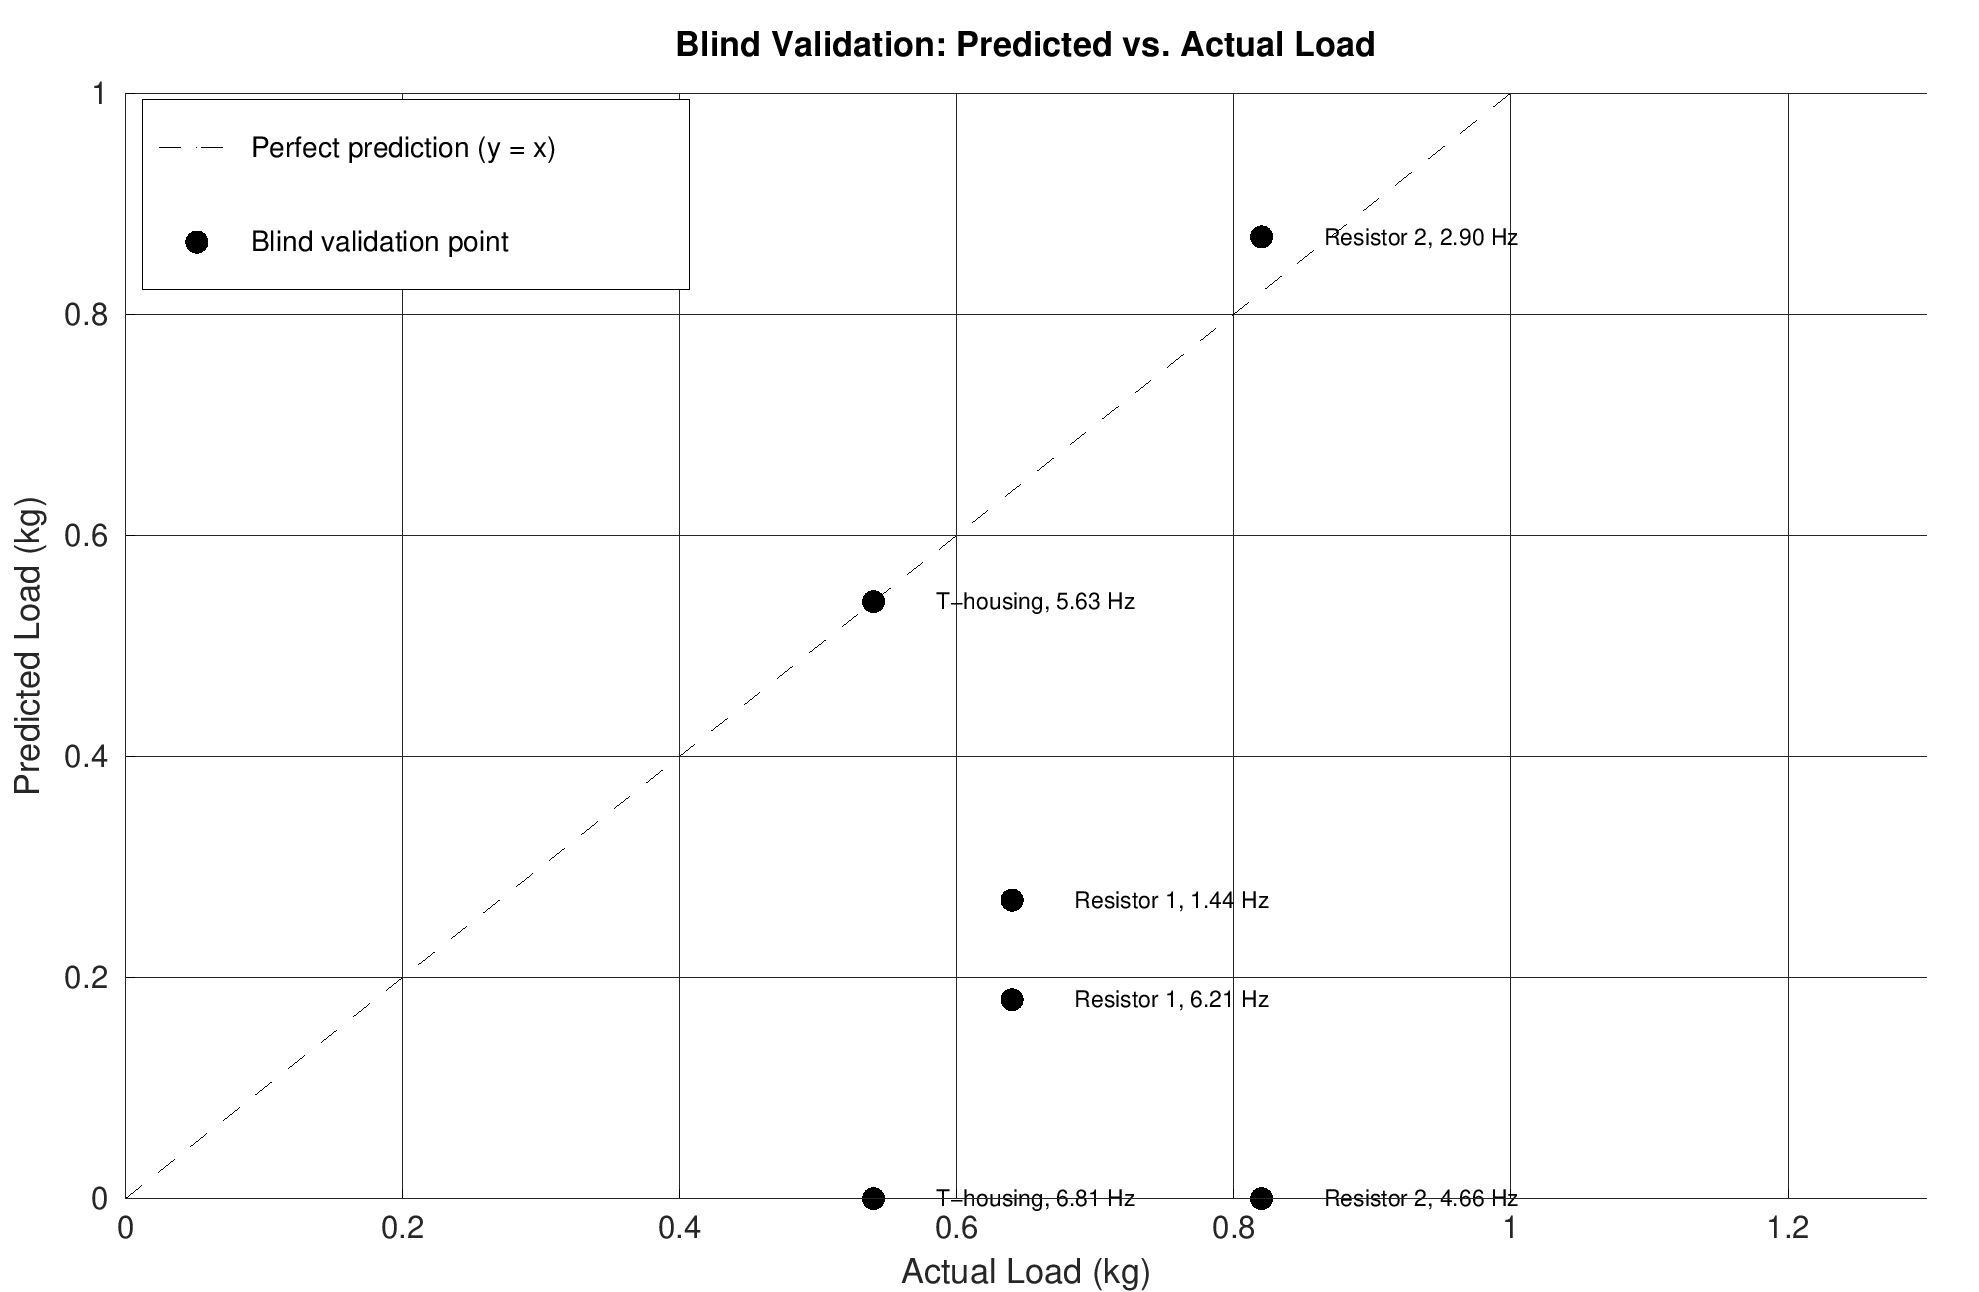
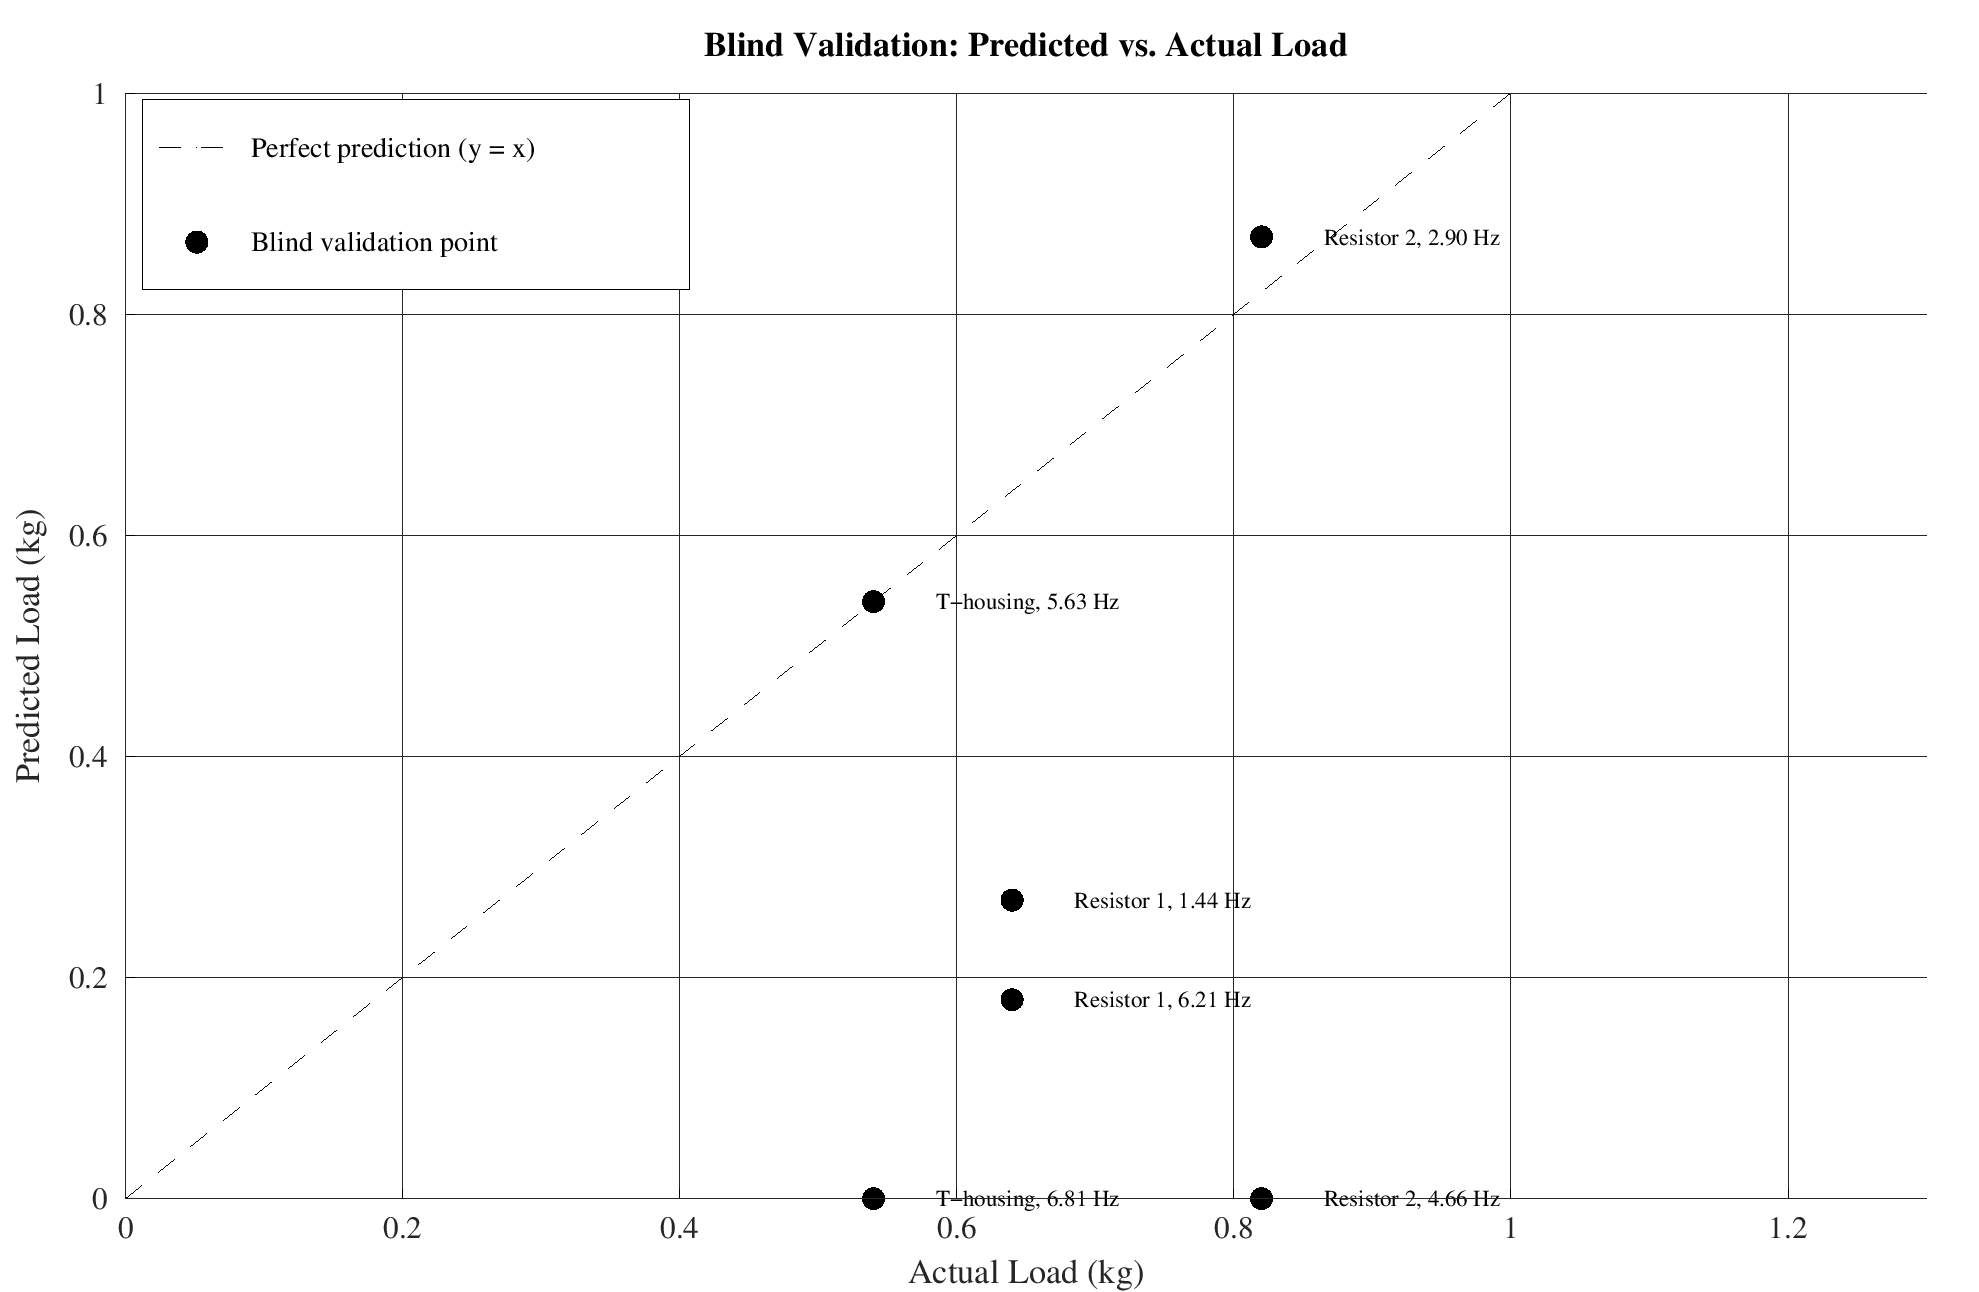
WIP checkpoint: Rev 12 figure updates (IEEE font, Fig. 8 split) in progress
Intermediate state from the ongoing Rev 12 rebuild - generate_figures.m is
mid-edit (Times New Roman figure labels per the real IEEE template, Fig. 8
baseline split into two standalone figures per Rev 11 comment 71). Not yet
a finished, verified state; follow-up commit will land once the rebuild
and its visual/programmatic verification pass completes.

Claude-Session: https://claude.ai/code/session_01KDBgZS5sBDtdZcqbVDmcN3

diff --git a/tools/matlab/generate_figures.m b/tools/matlab/generate_figures.m
@@ -15,7 +15,10 @@
 %                                           averaged over each run's settled plateau)
 % Writes: tools/matlab/figures/*.png
 %
-% Output -> paper/deck figure number map (by order of appearance in the paper):
+% Output -> paper/deck figure number map (by order of appearance in the paper, as of
+% Rev 12 - the Rev 9 calibration-objects photo (old Fig. 7) was removed per review
+% comment 69 and replaced in that number slot by the new firmware flowchart below, so
+% most downstream figure numbers are unchanged from Rev 11):
 %   fig1_block_diagram.png        Fig. 1  (schematic, no data - drawn, not plotted)
 %   (not produced here)           Fig. 2  (full test rig photo - see
 %                                           paper_rev0/assets/12.jpg)
@@ -30,43 +33,62 @@
 %                                           figure NUMBER used in the paper is 5)
 %   (not produced here)           Fig. 6  (raw USART2 screenshot - see
 %                                           paper_rev0/assets/raw_csv_screenshot.png)
-%   (not produced here)           Fig. 7  (three weighted calibration objects photo -
-%                                           see paper_rev0/assets/obj_*.jpeg)
-%   fig4_baseline_combined.png    Fig. 8  (no-load baseline, up direction only - Rev 10
-%                                           dropped down-direction data entirely; see
-%                                           note below)
-%   fig5_calibration_fit.png      Fig. 9
-%   fig6_blind_validation.png     Fig. 10
-%   fig8_torque_validation_slip.png   Fig. 11 (independent torque-sensor validation,
+%   (not produced here)           Fig. 7  (STM32 firmware control-flow chart - David's
+%                                           explicit Rev 11 chat request; see
+%                                           paper_rev0/assets/fig_sw_flowchart.png,
+%                                           generated by scratchpad/flowchart/
+%                                           gen_flowchart.m, not by this script)
+%   fig4_baseline_slip.png        Fig. 8  (no-load baseline, slip panel - up direction
+%                                           only, Rev 10 dropped down-direction data
+%                                           entirely; see note below)
+%   fig4_baseline_current.png     Fig. 9  (same baseline session, current panel - split
+%                                           from one combined two-panel figure into two
+%                                           single-panel figures per Rev 11 review
+%                                           comment 71, same split already applied to
+%                                           the torque-validation figure below)
+%   fig5_calibration_fit.png      Fig. 10
+%   fig6_blind_validation.png     Fig. 11
+%   fig8_torque_validation_slip.png   Fig. 12 (independent torque-sensor validation,
 %                                           slip panel - split from one combined
 %                                           two-panel figure into two single-panel
 %                                           figures per David's Rev 9 review comment)
-%   fig8_torque_validation_torque.png Fig. 12 (same validation session, torque panel;
+%   fig8_torque_validation_torque.png Fig. 13 (same validation session, torque panel;
 %                                           Rev 10 converted this axis from mN*m to N*m)
-%   fig7_loocv_model_comparison.png Fig. 13
+%   fig7_loocv_model_comparison.png Fig. 14
 %
-% Fig. 1/5 are drawn schematics (wiring per docs/wiring.md + Table III). Fig. 8/9 are
+% Fig. 1/5 are drawn schematics (wiring per docs/wiring.md + Table III). Fig. 8/9/10 are
 % computed directly from the real groups.csv files checked into the repo (genuine
-% recomputation, not hardcoded). Fig. 10/13 reproduce the already-reported blind-
+% recomputation, not hardcoded). Fig. 11/14 reproduce the already-reported blind-
 % validation and LOOCV results (Tables VIII/XII of the paper) - those specific held-out
 % sessions were analyzed ad hoc and are not re-derivable from a groups.csv in this
 % repo, so their numbers are transcribed here from the paper with a comment at each
 % one, not recomputed.
 %
-% Rev 10: down-direction (lowering) slip/current data removed from Fig. 8 entirely -
-% the motor has no dynamic braking, so down-direction readings were never physically
-% meaningful and were never used in the paper's model (David's call, Rev 9 review).
-% Rev 11: Fig. 11/12 split from one combined two-panel torque-validation figure into
+% Rev 10: down-direction (lowering) slip/current data removed from the baseline figure
+% entirely - the motor has no dynamic braking, so down-direction readings were never
+% physically meaningful and were never used in the paper's model (David's call, Rev 9
+% review).
+% Rev 11: the torque-validation figure split from one combined two-panel figure into
 % two single-panel figures (David's Rev 9 review comment, caught during the full
 % comment-resolution audit that produced Rev 11).
+% Rev 12: the no-load baseline figure split the same way (Rev 11 review comment 71,
+% missed in the Rev 11 pass); real IEEE-template margins/column width applied
+% throughout the paper, so every figure here is now sized to fit a single column.
 
 clear; clc; close all;
 
 % Paper figures get embedded small (IEEE two-column), so default text/axes
 % sizes are bumped well above Octave's defaults to stay legible there -
-% flagged as too small to read in Rev 3 review comments.
+% flagged as too small to read in Rev 3 review comments. The real IEEE template
+% calls for 8pt Times New Roman on figure/axis labels, but that spec is written
+% for native Word text, not pixels baked into a raster image at a given DPI - at
+% a literal 8pt these labels would be unreadable once shrunk to single-column
+% width, which is the exact problem the Rev 3 fix below already solved. Font
+% FAMILY is set to match the template; size is kept bumped for legibility.
 set(0, 'DefaultAxesFontSize', 15);
 set(0, 'DefaultTextFontSize', 15);
+set(0, 'DefaultAxesFontName', 'Times New Roman');
+set(0, 'DefaultTextFontName', 'Times New Roman');
 set(0, 'DefaultLineLineWidth', 2.2);
 set(0, 'DefaultAxesLineWidth', 1.1);
 
@@ -199,13 +221,15 @@ saveas(fig, fullfile(OUT_DIR, 'fig2_rs485_wiring.png'));
 close(fig);
 
 % ============================================================================
-% Figure 8 (paper Fig. 8): No-load baseline - slip and current vs. frequency, two panels,
-% up direction only (Rev 10: down-direction dropped entirely - no dynamic
-% braking on this motor, so down-direction readings were never physically
-% meaningful and were never used in the paper's model).
+% Figures 8-9 (paper Fig. 8, Fig. 9): No-load baseline - slip and current vs.
+% frequency, up direction only (Rev 10: down-direction dropped entirely - no
+% dynamic braking on this motor, so down-direction readings were never
+% physically meaningful and were never used in the paper's model). Split into
+% two standalone figures per Rev 11 review comment 71 ("Break these two
+% graphs into two separate figures") - same split already applied to the
+% torque-validation figure below.
 % (Fig. 3 is the Drum_Rev_0 CAD render, produced separately - not by this script)
 % ============================================================================
-fig = figure('Visible', 'off', 'Position', [0 0 1300 520]);
 is_noload = (total_kg == 0);
 
 % Plot against the fixed 4-point frequency grid, NaN-filled where no no-load
@@ -219,17 +243,20 @@ for k = 1:numel(TARGET_FREQS)
   if any(mu); grid_slip_up(k) = slip_mean(find(mu, 1)); grid_cur_up(k) = current_mean(find(mu, 1)); end
 end
 
-subplot(1, 2, 1); hold on;
+fig = figure('Visible', 'off', 'Position', [0 0 700 520]);
+hold on;
 plot(TARGET_FREQS, grid_slip_up, '-o', 'LineWidth', 2, 'MarkerSize', 8, 'Color', 'k', 'MarkerFaceColor', 'k');
 xlabel('Commanded Frequency (Hz)'); ylabel('Slip (fractional)');
-title('(a) Slip vs. Frequency'); grid on;
+title('Slip vs. Frequency'); grid on;
+saveas(fig, fullfile(OUT_DIR, 'fig4_baseline_slip.png'));
+close(fig);
 
-subplot(1, 2, 2); hold on;
+fig = figure('Visible', 'off', 'Position', [0 0 700 520]);
+hold on;
 plot(TARGET_FREQS, grid_cur_up, '-o', 'LineWidth', 2, 'MarkerSize', 8, 'Color', 'k', 'MarkerFaceColor', 'k');
 xlabel('Commanded Frequency (Hz)'); ylabel('Output Current (A)');
-title('(b) Output Current vs. Frequency'); grid on;
-
-saveas(fig, fullfile(OUT_DIR, 'fig4_baseline_combined.png'));
+title('Output Current vs. Frequency'); grid on;
+saveas(fig, fullfile(OUT_DIR, 'fig4_baseline_current.png'));
 close(fig);
 
 % ============================================================================
@@ -357,7 +384,7 @@ for k = 1:numel(tv_objects)
   plot(tv_freqs, tv_objects{k}{2}, [tv_linestyles{k} tv_markers{k}], 'MarkerSize', 9, 'LineWidth', 1.8, ...
        'Color', 'k', 'MarkerFaceColor', tv_facecolors{k}, 'MarkerEdgeColor', 'k', 'DisplayName', tv_objects{k}{1});
 end
-xlabel('Commanded Frequency (Hz)'); ylabel('Torque (N\cdotm)');
+xlabel('Commanded Frequency (Hz)'); ylabel('Torque (N·m)');
 title('Torque vs. Frequency'); legend('Location', 'southeast'); grid on;
 saveas(fig, fullfile(OUT_DIR, 'fig8_torque_validation_torque.png'));
 close(fig);
